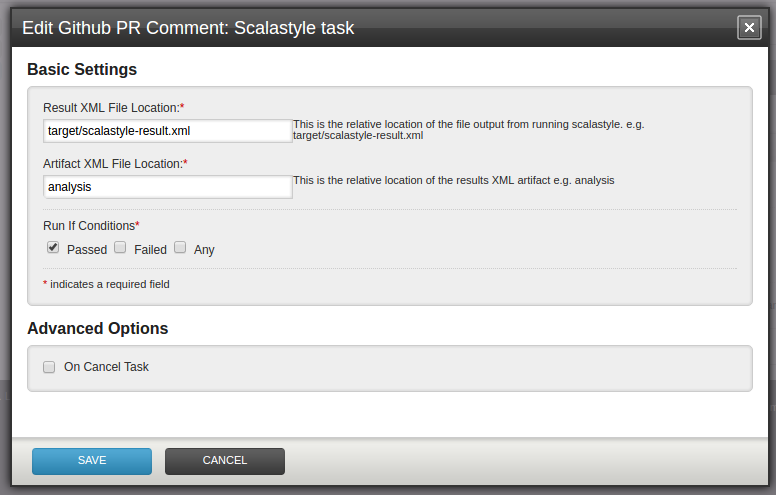
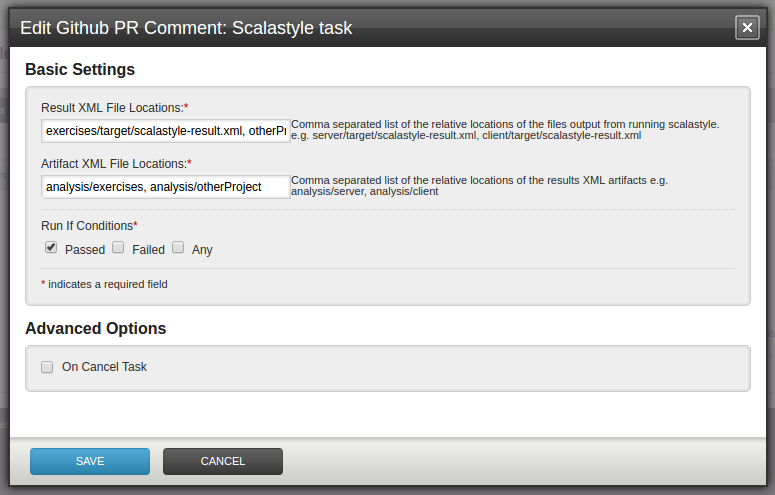
update the README to reflect recent changes

diff --git a/README.md b/README.md
@@ -33,23 +33,25 @@ This plugin will add scalastyle static analysis results to Github pull requests 
 
 ![Add Pipeline Tasks][4]
 
-3) save the scalastyle-result.xml file as a pipeline artifact
+3) save all scalastyle-result.xml files as a pipeline artifacts. You will only have 1 unless you have a multi-project sbt build
 
 ![Set Artifact Location][5]
 
 4) add a 'Github PR Comment: Scalastyle' task
 
-5) point the task to the location of the scalastyle results (this will tend to be target/scalastyle-result.xml)
+5) point the task to the locations of the scalastyle results. If you have a single project build this will tend to be target/scalastyle-result.xml. Otherwise provide a comma
+separated list of locations. (e.g. server/target/scalastyle-result.xml, client/target/scalastyle-result.xml)
 
-6) point the task to the folder containing the XML file artifact (this is needed for the trackback link) 
+6) point the task to the folders containing the XML file artifacts (this is needed for the trackback link). For each result file you specified in step 5, specify the matching
+artifact location as a comma separated list.
 
 ![Scalastyle Plugin Configuration][6]
 
 
 ## Output:
 
-When the task executes, the plugin will examine the scalastyle results XML file and comment on the pull request with a summary of the findings. 
-You can click on the 'details' link to view the raw XML results behind the summary.
+When the task executes, the plugin will examine the scalastyle results XML files and comment on the pull request if it found any errors, warning or infos.<br/>
+You can click on the artifact link to view the raw XML results behind the file summary.
 
 ![Pull Request Comment][7]
 
